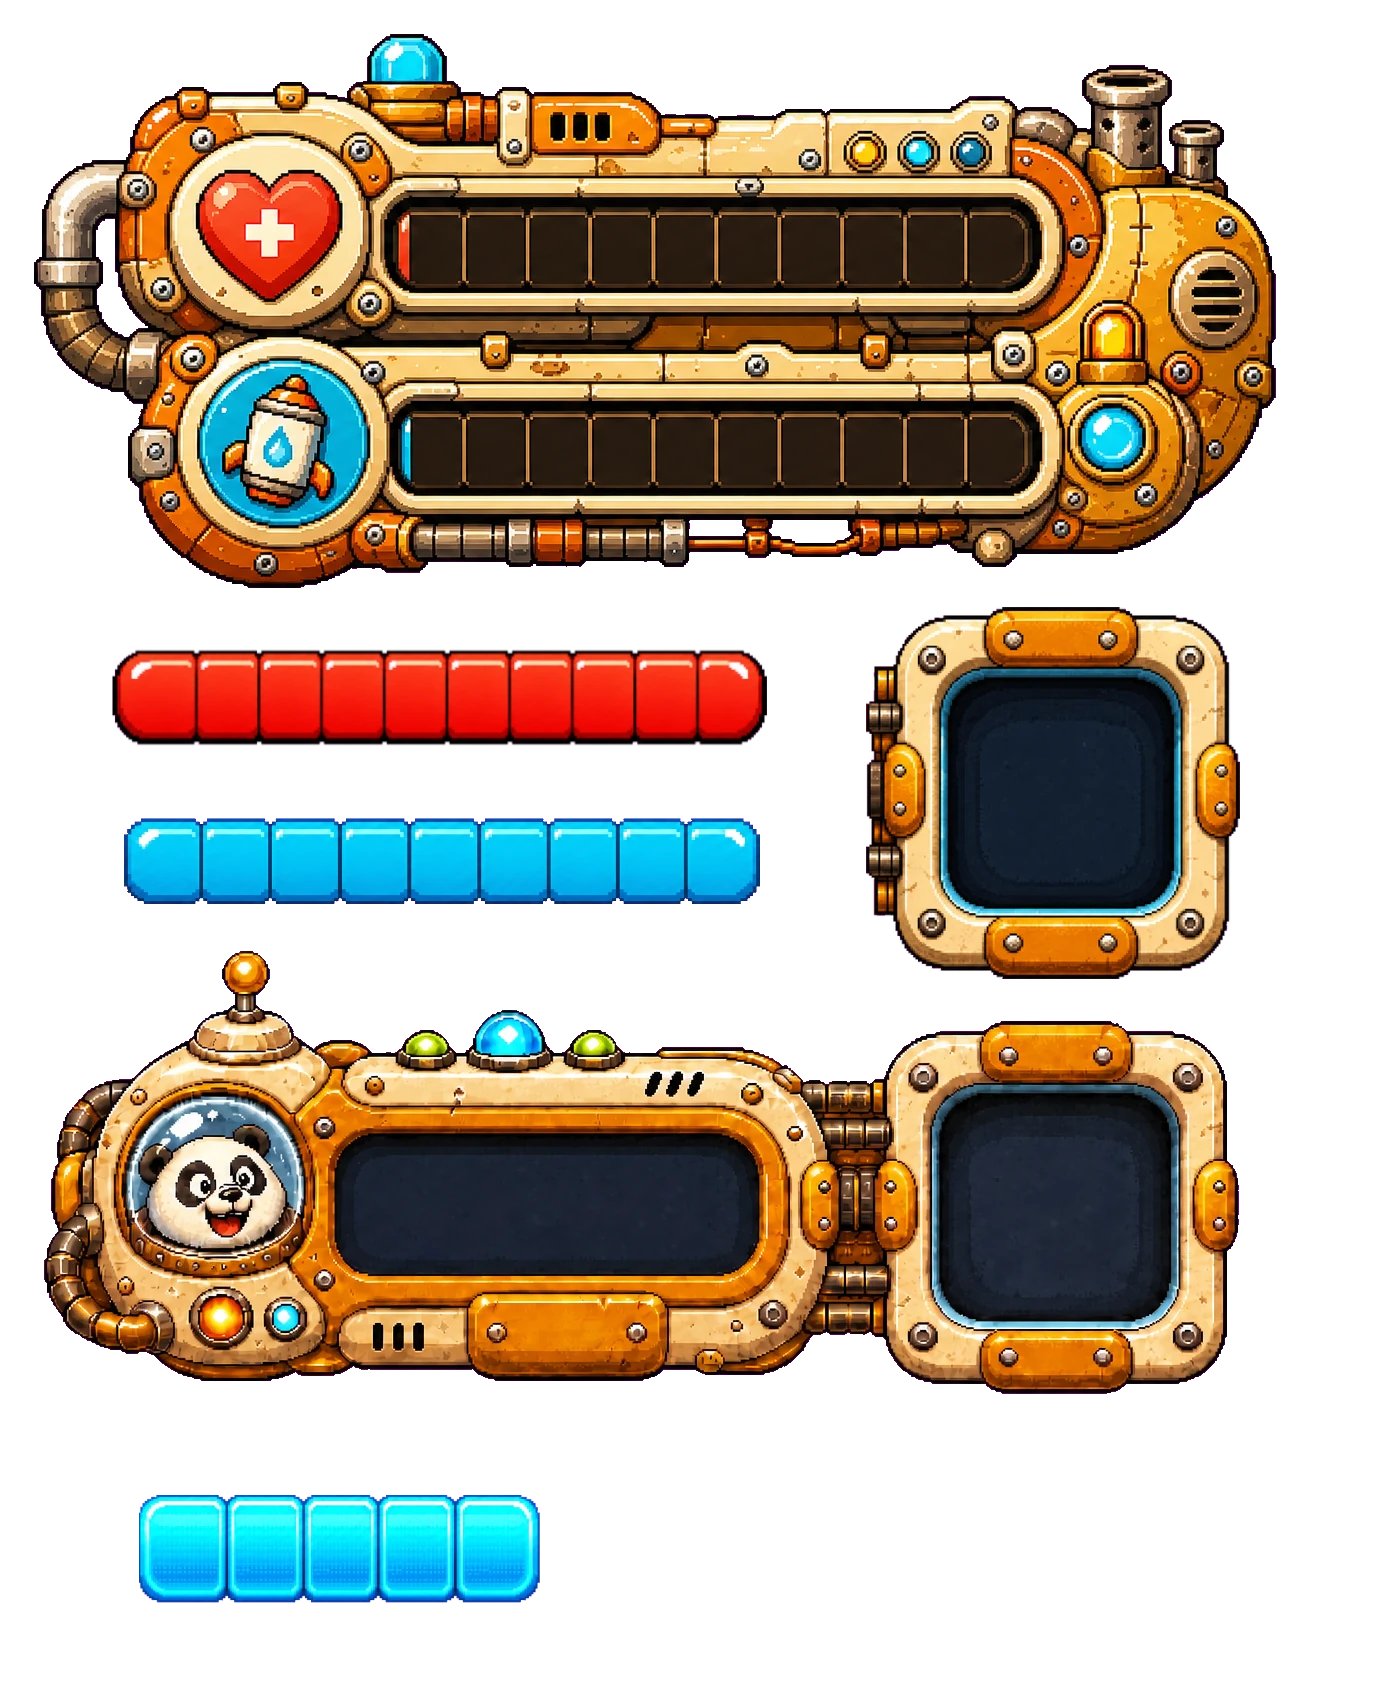
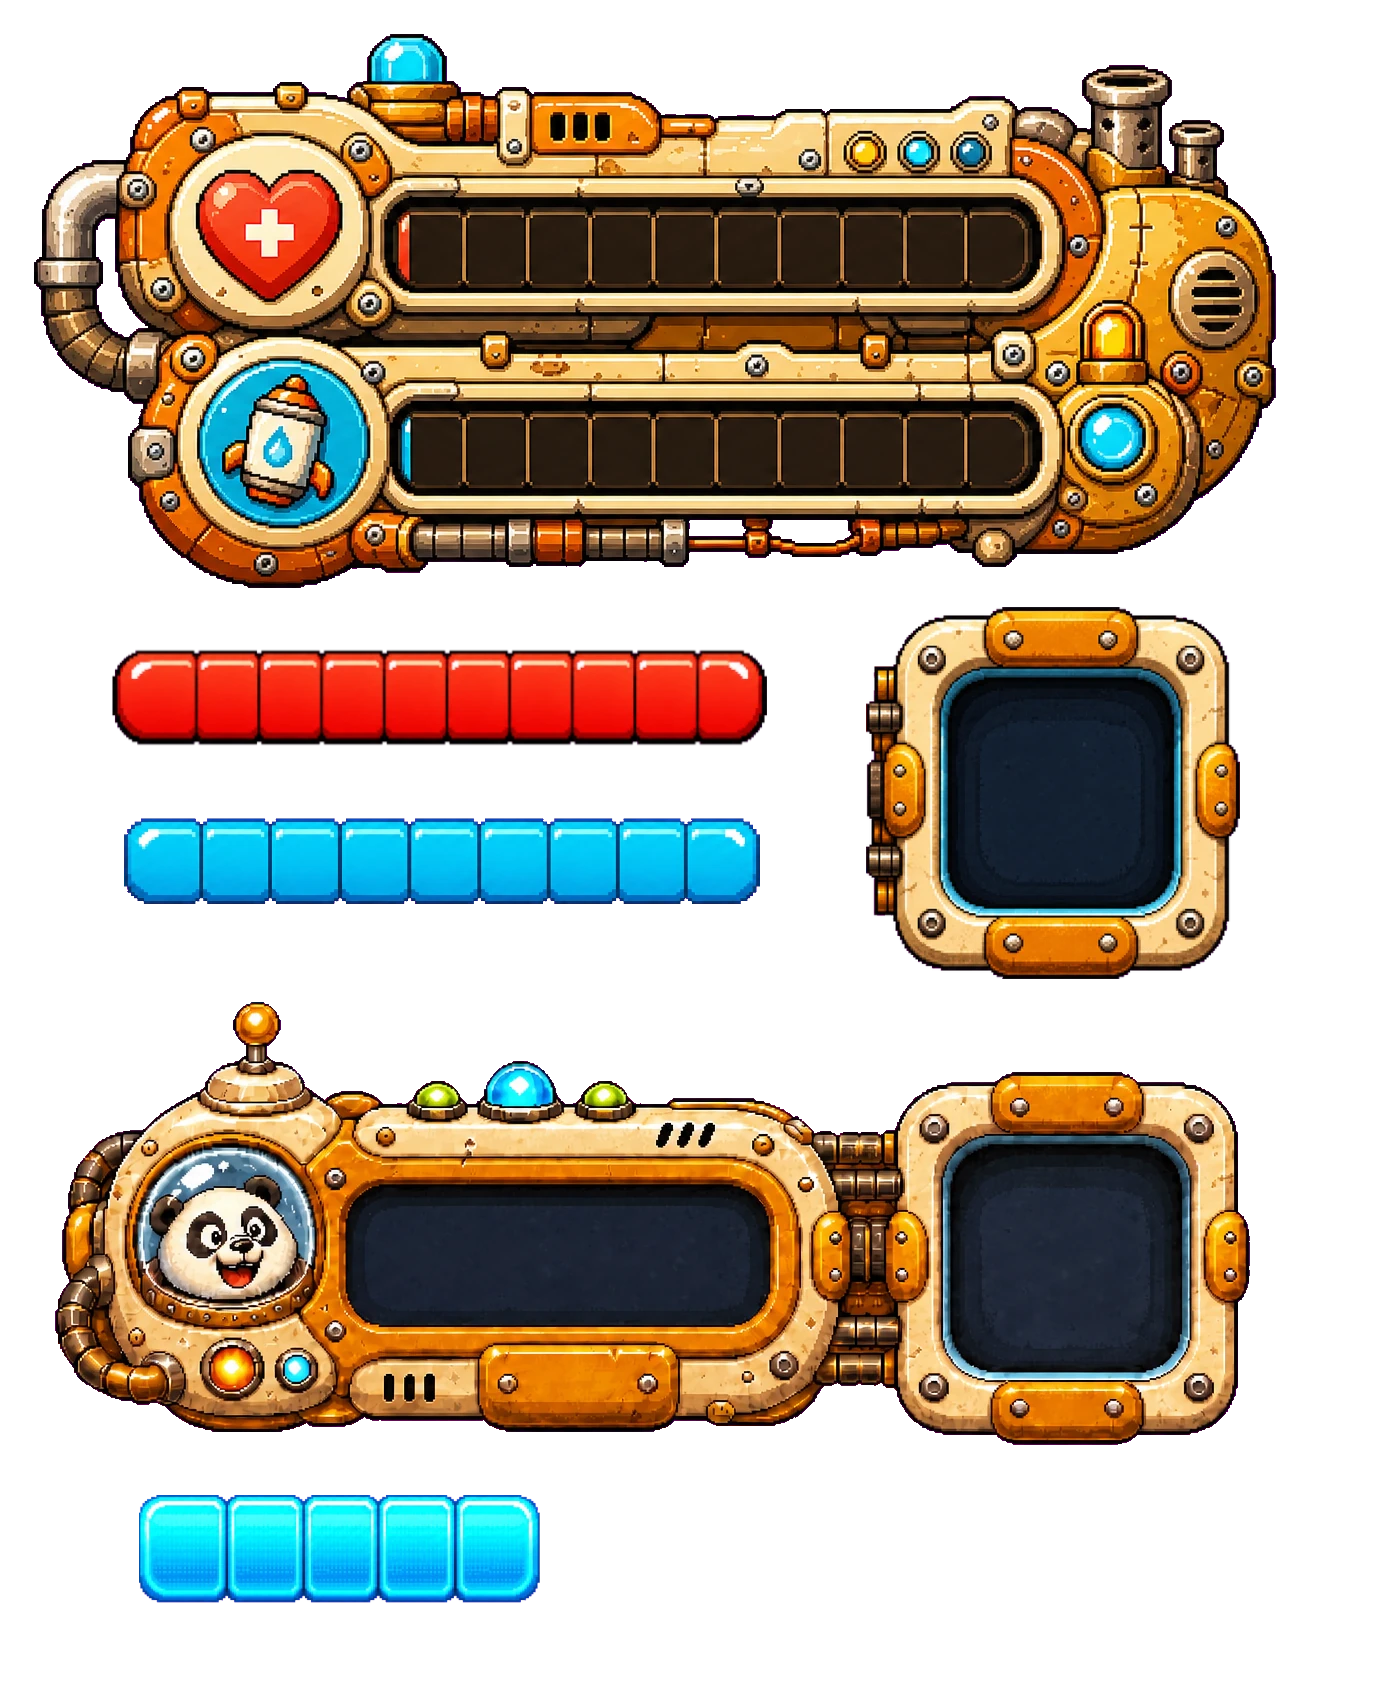
update

Changed region(s): [[0.0307, 0.5612, 0.8907, 0.8729]]

diff --git a/src/scenes/UIScene.ts b/src/scenes/UIScene.ts
@@ -43,21 +43,21 @@ const TEXT = {
 
 const UI_ATLAS = {
   topHud: { x: 34, y: 34, w: 1242, h: 554 },
-  hpBar: { x: 112, y: 649, w: 655, h: 97 },
-  fuelBar: { x: 124, y: 818, w: 636, h: 86 },
-  hpSlot: { x: 365, y: 168, w: 655, h: 97 },
-  fuelSlot: { x: 365, y: 374, w: 636, h: 86 },
-  topDisplayWidth: 360,
-  bottomHud: { x: 44, y: 951, w: 1195, h: 443 },
+  hpBar: { x: 112, y: 650, w: 655, h: 95 },
+  fuelBar: { x: 124, y: 818, w: 632, h: 81 },
+  hpSlot: { x: 385 - 34, y: 200 - 34, w: 655, h: 95 },
+  fuelSlot: { x: 395 - 34, y: 406 - 34, w: 637, h: 85 },
+  topDisplayWidth: 400,
+  bottomHud: { x: 55, y: 1002, w: 1194, h: 442 },
   energyBar: { x: 139, y: 1495, w: 401, h: 108 },
-  energySlot: { x: 293, y: 190, w: 401, h: 108 },
+  energySlot: { x: 360 - 55, y: 1194 - 1002, w: 395, h: 125 },
   repeatSlot: { x: 866, y: 607, w: 374, h: 372 },
-  extraSlotOrigin: { x: 1225, y: 36 },
-  firstSlotCenter: { x: 1000, y: 259 },
+  extraSlotOrigin: { x: 1160, y: 65 },
+  firstSlotCenter: { x: 1010, y: 265 },
   slotContentSize: 128,
-  repeatSlotHeight: 170,
-  repeatSlotStep: 190,
-  bottomDisplayHeight: 150,
+  repeatSlotHeight: 372,
+  repeatSlotStep: 360,
+  bottomDisplayHeight: 180,
 } as const;
 
 export class UIScene extends Phaser.Scene {
